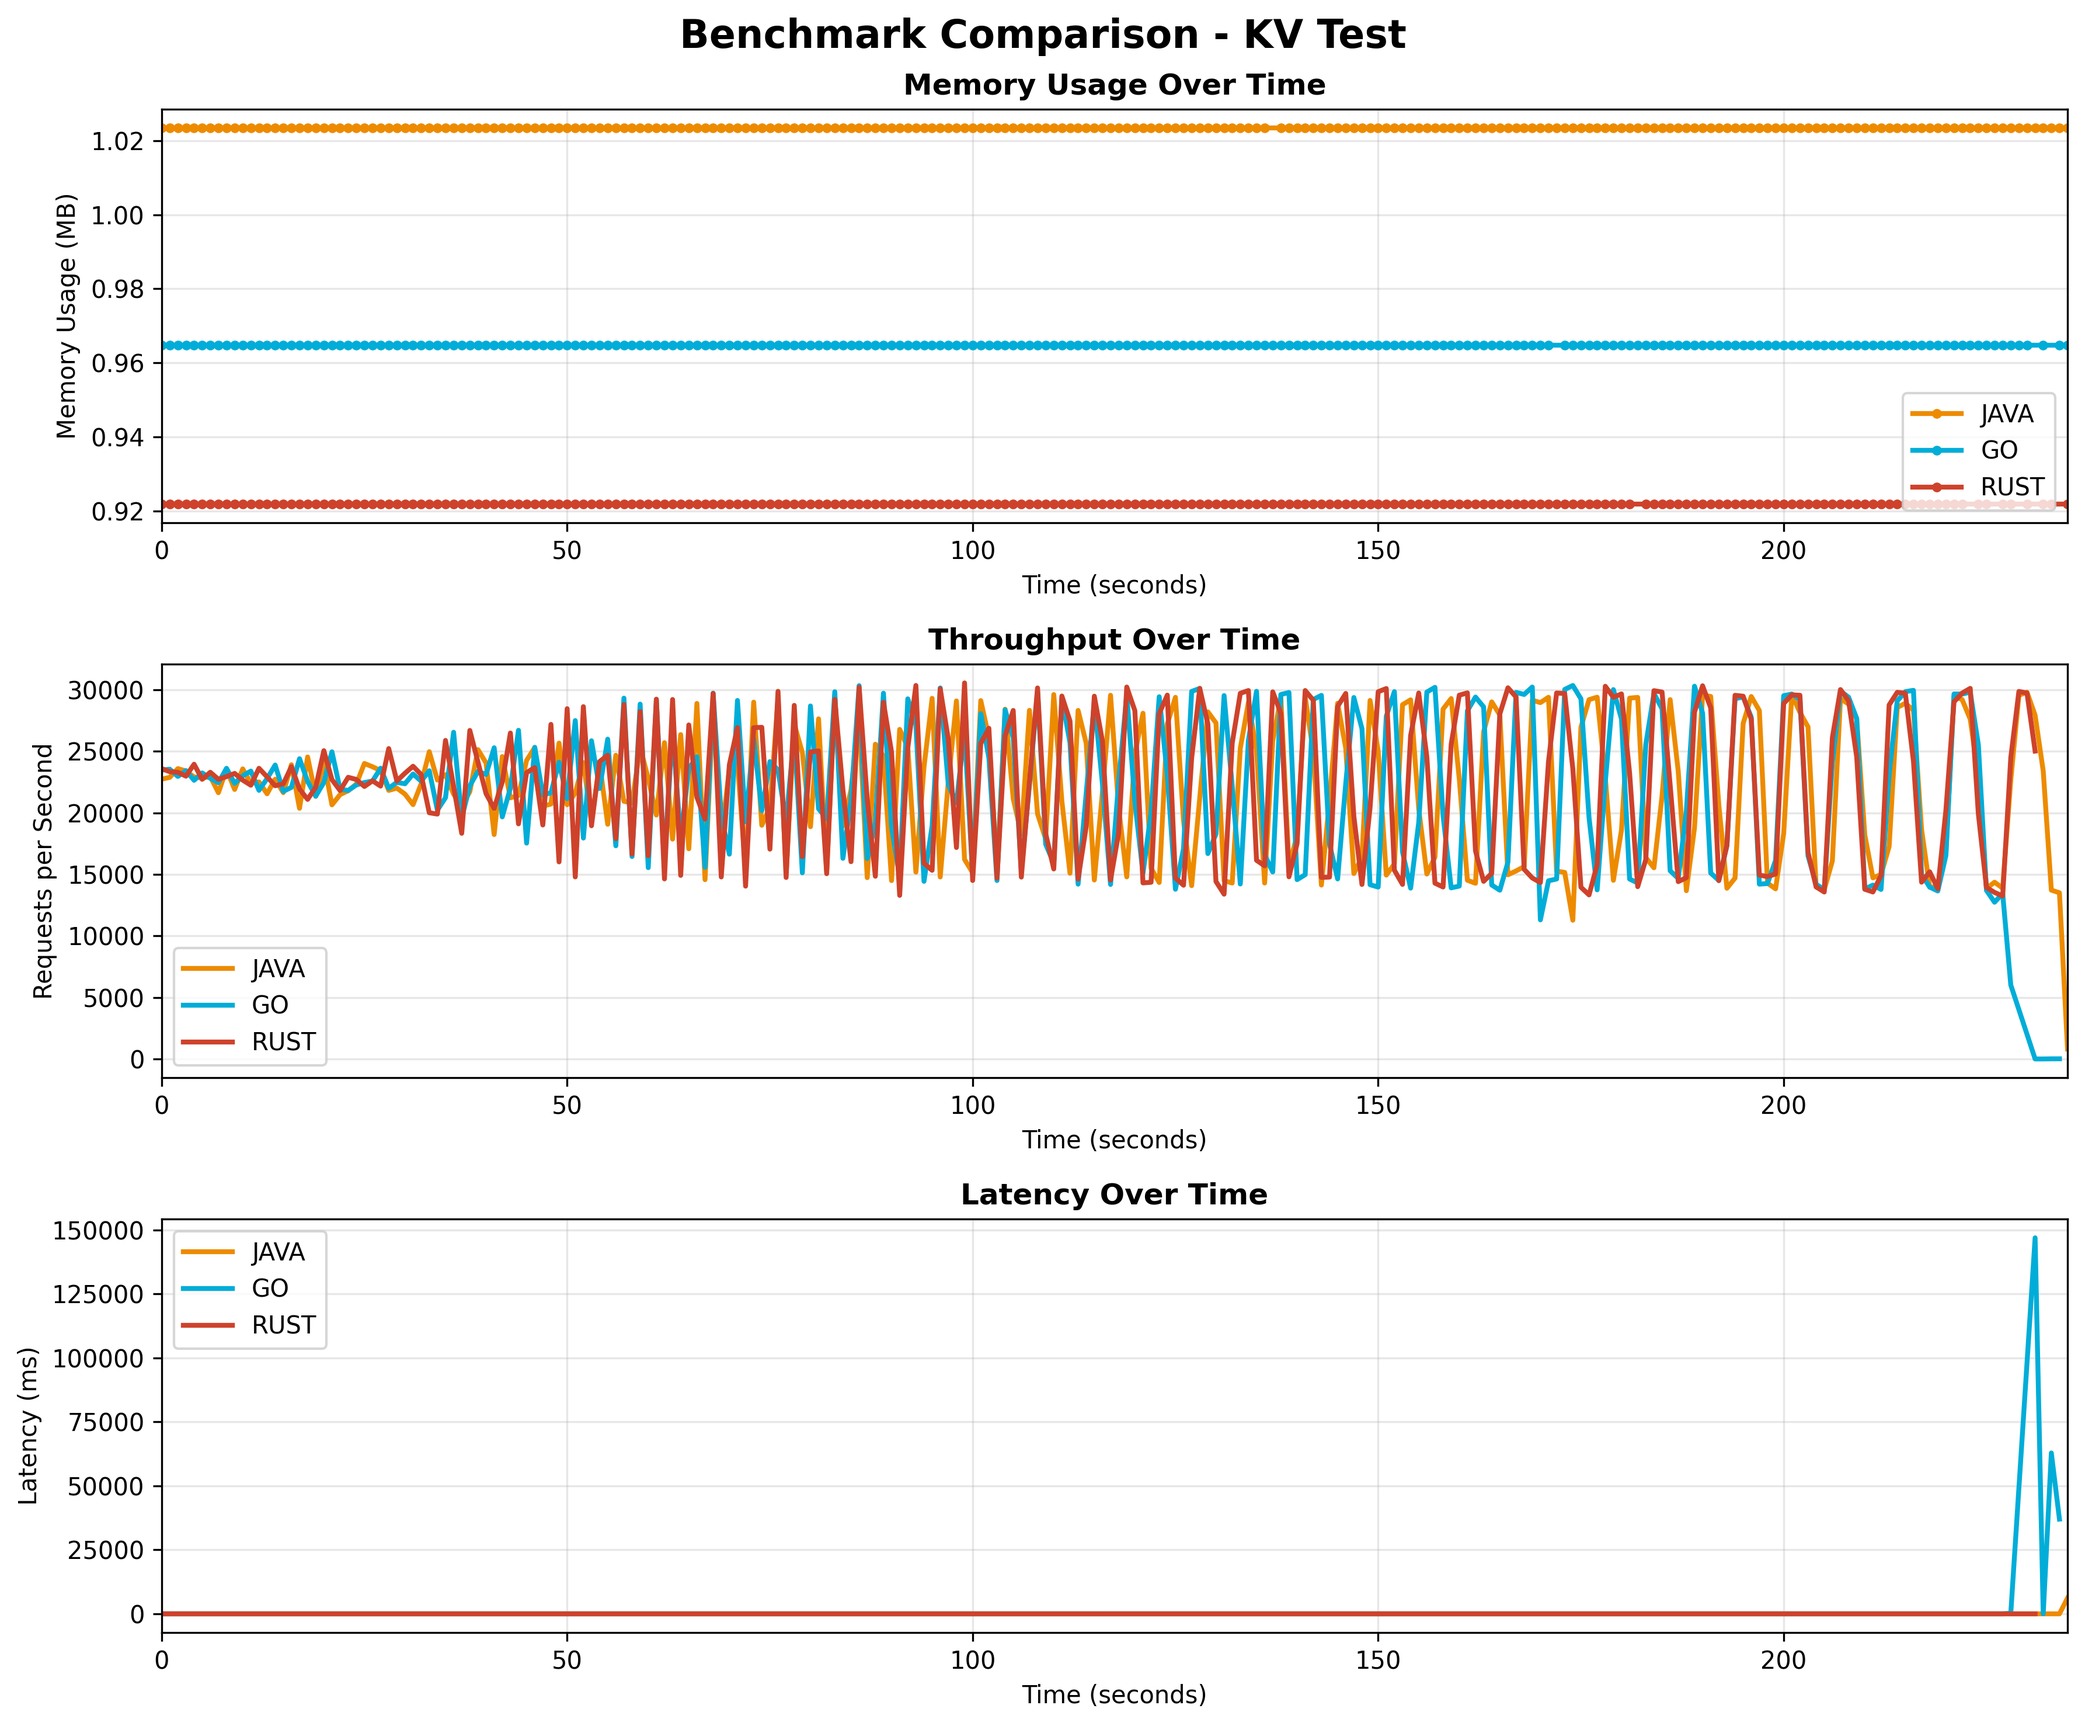
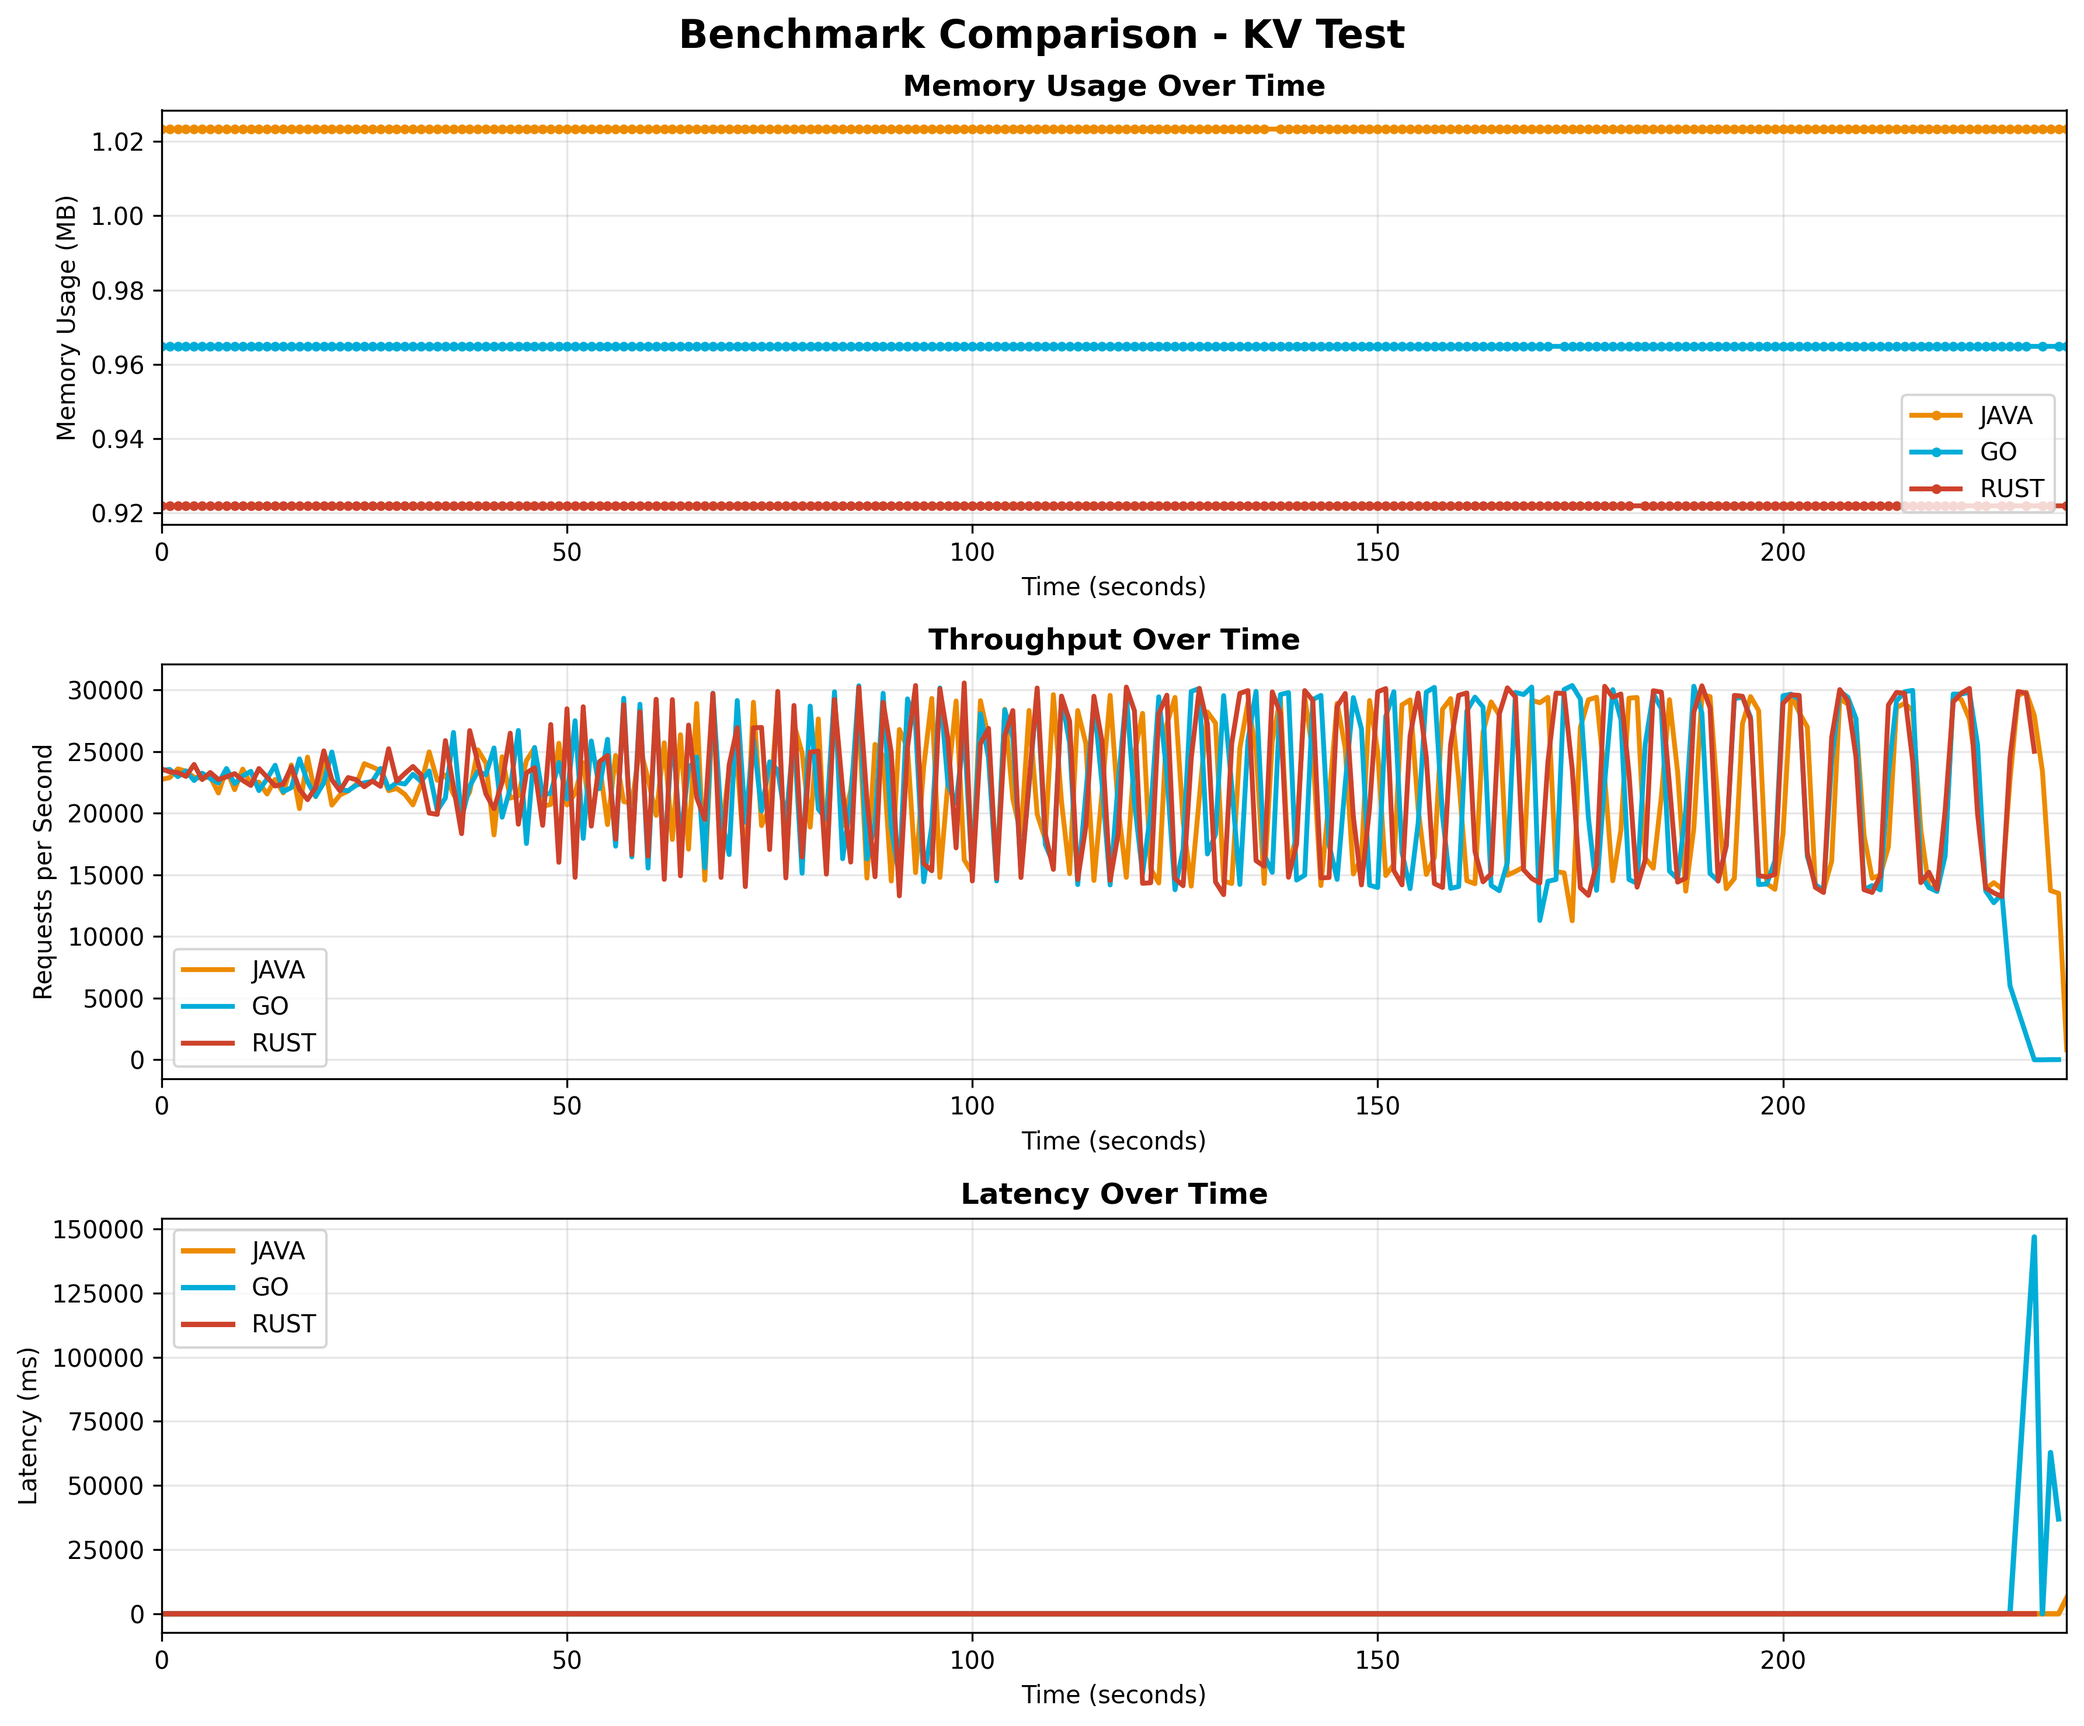
Enhance benchmark output to include latency percentiles (p50/p90/p99) in CSV files and update README for clarity; modify plot comparison script to handle new data structure and improve summary statistics calculations.

diff --git a/Benchmark/k6/kv.js b/Benchmark/k6/kv.js
@@ -68,15 +68,17 @@ export default function () {
 
 export function handleSummary(data) {
   const metrics = data.metrics;
-  let csv = 'second,requests,avg_ms,p95_ms\n';
+  let csv = 'second,requests,avg_ms,p50_ms,p90_ms,p99_ms\n';
   
   for (let s = 0; s <= DURATION_SEC; s++) {
     const sec = s.toString().padStart(6, '0');
     const count = metrics[`http_reqs{sec:${sec}}`]?.values?.count ?? 0;
     const avg = metrics[`http_req_duration{sec:${sec}}`]?.values?.avg ?? '';
-    const p95 = metrics[`http_req_duration{sec:${sec}}`]?.values?.['p(95)'] ?? '';
+    const p50 = metrics[`http_req_duration{sec:${sec}}`]?.values?.['p(50)'] ?? '';
+    const p90 = metrics[`http_req_duration{sec:${sec}}`]?.values?.['p(90)'] ?? '';
+    const p99 = metrics[`http_req_duration{sec:${sec}}`]?.values?.['p(99)'] ?? '';
     if (count > 0) {
-      csv += `${s},${count},${avg || 0},${p95 || 0}\n`;
+      csv += `${s},${count},${avg || 0},${p50 || 0},${p90 || 0},${p99 || 0}\n`;
     }
   }
   

diff --git a/Benchmark/k6/light.js b/Benchmark/k6/light.js
@@ -91,15 +91,17 @@ export default function () {
 
 export function handleSummary(data) {
   const metrics = data.metrics;
-  let csv = 'second,requests,avg_ms,p95_ms\n';
+  let csv = 'second,requests,avg_ms,p50_ms,p90_ms,p99_ms\n';
   
   for (let s = 0; s <= DURATION_SEC; s++) {
     const sec = s.toString().padStart(6, '0');
     const count = metrics[`http_reqs{sec:${sec}}`]?.values?.count ?? 0;
     const avg = metrics[`http_req_duration{sec:${sec}}`]?.values?.avg ?? '';
-    const p95 = metrics[`http_req_duration{sec:${sec}}`]?.values?.['p(95)'] ?? '';
+    const p50 = metrics[`http_req_duration{sec:${sec}}`]?.values?.['p(50)'] ?? '';
+    const p90 = metrics[`http_req_duration{sec:${sec}}`]?.values?.['p(90)'] ?? '';
+    const p99 = metrics[`http_req_duration{sec:${sec}}`]?.values?.['p(99)'] ?? '';
     if (count > 0) {
-      csv += `${s},${count},${avg || 0},${p95 || 0}\n`;
+      csv += `${s},${count},${avg || 0},${p50 || 0},${p90 || 0},${p99 || 0}\n`;
     }
   }
   

diff --git a/Benchmark/k6/prime.js b/Benchmark/k6/prime.js
@@ -42,15 +42,17 @@ export default function () {
 
 export function handleSummary(data) {
   const metrics = data.metrics;
-  let csv = 'second,requests,avg_ms,p95_ms\n';
+  let csv = 'second,requests,avg_ms,p50_ms,p90_ms,p99_ms\n';
   
   for (let s = 0; s <= DURATION_SEC; s++) {
     const sec = s.toString().padStart(6, '0');
     const count = metrics[`http_reqs{sec:${sec}}`]?.values?.count ?? 0;
     const avg = metrics[`http_req_duration{sec:${sec}}`]?.values?.avg ?? '';
-    const p95 = metrics[`http_req_duration{sec:${sec}}`]?.values?.['p(95)'] ?? '';
+    const p50 = metrics[`http_req_duration{sec:${sec}}`]?.values?.['p(50)'] ?? '';
+    const p90 = metrics[`http_req_duration{sec:${sec}}`]?.values?.['p(90)'] ?? '';
+    const p99 = metrics[`http_req_duration{sec:${sec}}`]?.values?.['p(99)'] ?? '';
     if (count > 0) {
-      csv += `${s},${count},${avg || 0},${p95 || 0}\n`;
+      csv += `${s},${count},${avg || 0},${p50 || 0},${p90 || 0},${p99 || 0}\n`;
     }
   }
   

diff --git a/Benchmark/plot_comparison.py b/Benchmark/plot_comparison.py
@@ -9,6 +9,7 @@ from __future__ import annotations
 import json
 import csv
 import argparse
+import math
 import matplotlib.pyplot as plt
 from pathlib import Path
 from typing import Dict, List, Tuple
@@ -121,24 +122,52 @@ def load_memory_data(run_dir: Path, language: str, test: str) -> List[Tuple[int,
     return []
 
 
-def load_timeseries(run_dir: Path, test: str) -> List[Tuple[int, float, float]]:
+def load_timeseries(run_dir: Path, test: str) -> List[Dict[str, float]]:
     """Load throughput/latency timeseries for a test."""
     timeseries_file = run_dir / f"{test}_timeseries.csv"
     if not timeseries_file.exists():
         print(f"Warning: Timeseries file not found: {timeseries_file}")
         return []
 
-    data: List[Tuple[int, float, float]] = []
+    def _parse_float(row: Dict[str, str], keys: List[str], *, default: float) -> float:
+        for key in keys:
+            value = row.get(key)
+            if value in (None, ""):
+                continue
+            try:
+                return float(value)
+            except (TypeError, ValueError):
+                continue
+        return default
+
+    data: List[Dict[str, float]] = []
     try:
         with timeseries_file.open("r", encoding="utf-8") as handle:
             reader = csv.DictReader(handle)
             for row in reader:
-                second = int(row["second"])
-                # K6 outputs requests per second, our old format was "throughput"
-                throughput = float(row.get("requests", row.get("throughput", "0")))
-                # K6 outputs avg_ms, our old format was "latency_ms"
-                latency = float(row.get("avg_ms", row.get("latency_ms", "0")))
-                data.append((second, throughput, latency))
+                try:
+                    second = int(row["second"])
+                except (KeyError, TypeError, ValueError):
+                    continue
+
+                throughput = _parse_float(row, ["requests", "throughput"], default=0.0)
+                latency_avg = _parse_float(row, ["avg_ms", "latency_ms"], default=math.nan)
+                latency_p50 = _parse_float(
+                    row,
+                    ["p50_ms", "p(50)_ms", "p50"],
+                    default=latency_avg,
+                )
+                if math.isnan(latency_avg) and not math.isnan(latency_p50):
+                    latency_avg = latency_p50
+
+                data.append(
+                    {
+                        "second": float(second),
+                        "throughput": throughput,
+                        "latency_avg": latency_avg,
+                        "latency_p50": latency_p50,
+                    }
+                )
     except Exception as exc:
         print(f"Error reading timeseries from {timeseries_file}: {exc}")
         return []
@@ -172,7 +201,7 @@ def plot_comparison(
     test: str,
     duration_hint: int | None,
     memory_data: Dict[str, List[Tuple[int, float]]],
-    perf_data: Dict[str, List[Tuple[int, float, float]]],
+    perf_data: Dict[str, List[Dict[str, float]]],
     summary_data: Dict[str, Dict[str, float]],
     output_path: Path,
 ) -> None:
@@ -207,11 +236,17 @@ def plot_comparison(
     ax2.grid(True, alpha=0.3)
     
     for lang in languages:
-        if lang in perf_data and perf_data[lang]:
-            times = [t for t, _, _ in perf_data[lang]]
-            throughput = [th for _, th, _ in perf_data[lang]]
-            ax2.plot(times, throughput, label=lang.upper(), color=colors.get(lang, 'gray'), 
-                    linewidth=2)
+        points = perf_data.get(lang, [])
+        if points:
+            times = [point["second"] for point in points]
+            throughput = [point["throughput"] for point in points]
+            ax2.plot(
+                times,
+                throughput,
+                label=lang.upper(),
+                color=colors.get(lang, "gray"),
+                linewidth=2,
+            )
     
     ax2.legend()
     
@@ -222,15 +257,25 @@ def plot_comparison(
     ax3.grid(True, alpha=0.3)
     
     for lang in languages:
-        if lang in perf_data and perf_data[lang]:
-            times = [t for t, _, _ in perf_data[lang]]
-            latency = [lat for _, _, lat in perf_data[lang]]
-            ax3.plot(times, latency, label=lang.upper(), color=colors.get(lang, 'gray'), 
-                    linewidth=2)
+        points = perf_data.get(lang, [])
+        if not points:
+            continue
+
+        base_color = colors.get(lang, "gray")
+        times = np.array([point["second"] for point in points], dtype=float)
+        latency_p50 = np.array([point["latency_p50"] for point in points], dtype=float)
+
+        ax3.plot(
+            times,
+            latency_p50,
+            label=lang.upper(),
+            color=base_color,
+            linewidth=2.2,
+        )
     
     ax3.legend()
 
-    max_time = max((series[-1][0] for series in perf_data.values() if series), default=0)
+    max_time = max((series[-1]["second"] for series in perf_data.values() if series), default=0)
     x_limit = duration_hint if duration_hint else max_time
     if x_limit == 0:
         x_limit = max_time if max_time else 1
@@ -247,13 +292,18 @@ def plot_comparison(
     # Show summary statistics
     print("\n=== Summary Statistics ===")
     for lang in languages:
-        if lang in perf_data and perf_data[lang]:
-            throughput_values = [th for _, th, _ in perf_data[lang]]
-            latency_values = [lat for _, _, lat in perf_data[lang]]
+        points = perf_data.get(lang, [])
+        if points:
+            throughput_values = [point["throughput"] for point in points]
+            latency_values = [point["latency_avg"] for point in points]
             memory_values = [m for _, m in memory_data.get(lang, [])]
 
             avg_throughput = np.mean(throughput_values) if throughput_values else 0
-            avg_latency = np.mean(latency_values) if latency_values else 0
+            avg_latency = (
+                float(np.nanmean(latency_values))
+                if latency_values and not all(math.isnan(val) for val in latency_values)
+                else 0
+            )
             avg_memory = np.mean(memory_values) if memory_values else 0
 
             print(f"{lang.upper()}:")
@@ -301,7 +351,7 @@ def generate_plots(
         if verbose:
             print(f"\n=== Processing {test.upper()} test ===")
         memory_data: Dict[str, List[Tuple[int, float]]] = {}
-        perf_data: Dict[str, List[Tuple[int, float, float]]] = {}
+        perf_data: Dict[str, List[Dict[str, float]]] = {}
         summary_slice: Dict[str, Dict[str, float]] = {}
 
         for language, run_dir in run_entries:

diff --git a/Benchmark/README.md b/Benchmark/README.md
@@ -102,7 +102,7 @@ Common flags:
 The runner writes each benchmark into `results/<language>/<timestamp>/` with:
 
 - `results.json` – Summary metrics per test and metadata about the run.
-- `<test>_timeseries.csv` – Requests-per-second and latency per second.
+- `<test>_timeseries.csv` – Requests-per-second plus latency percentiles (p50/p90/p99) recorded each second.
 - `<test>_memory.csv` – Average RSS (MB) per second while the test executed.
 - Optional raw k6 outputs if `--keep-raw` is set.
 
